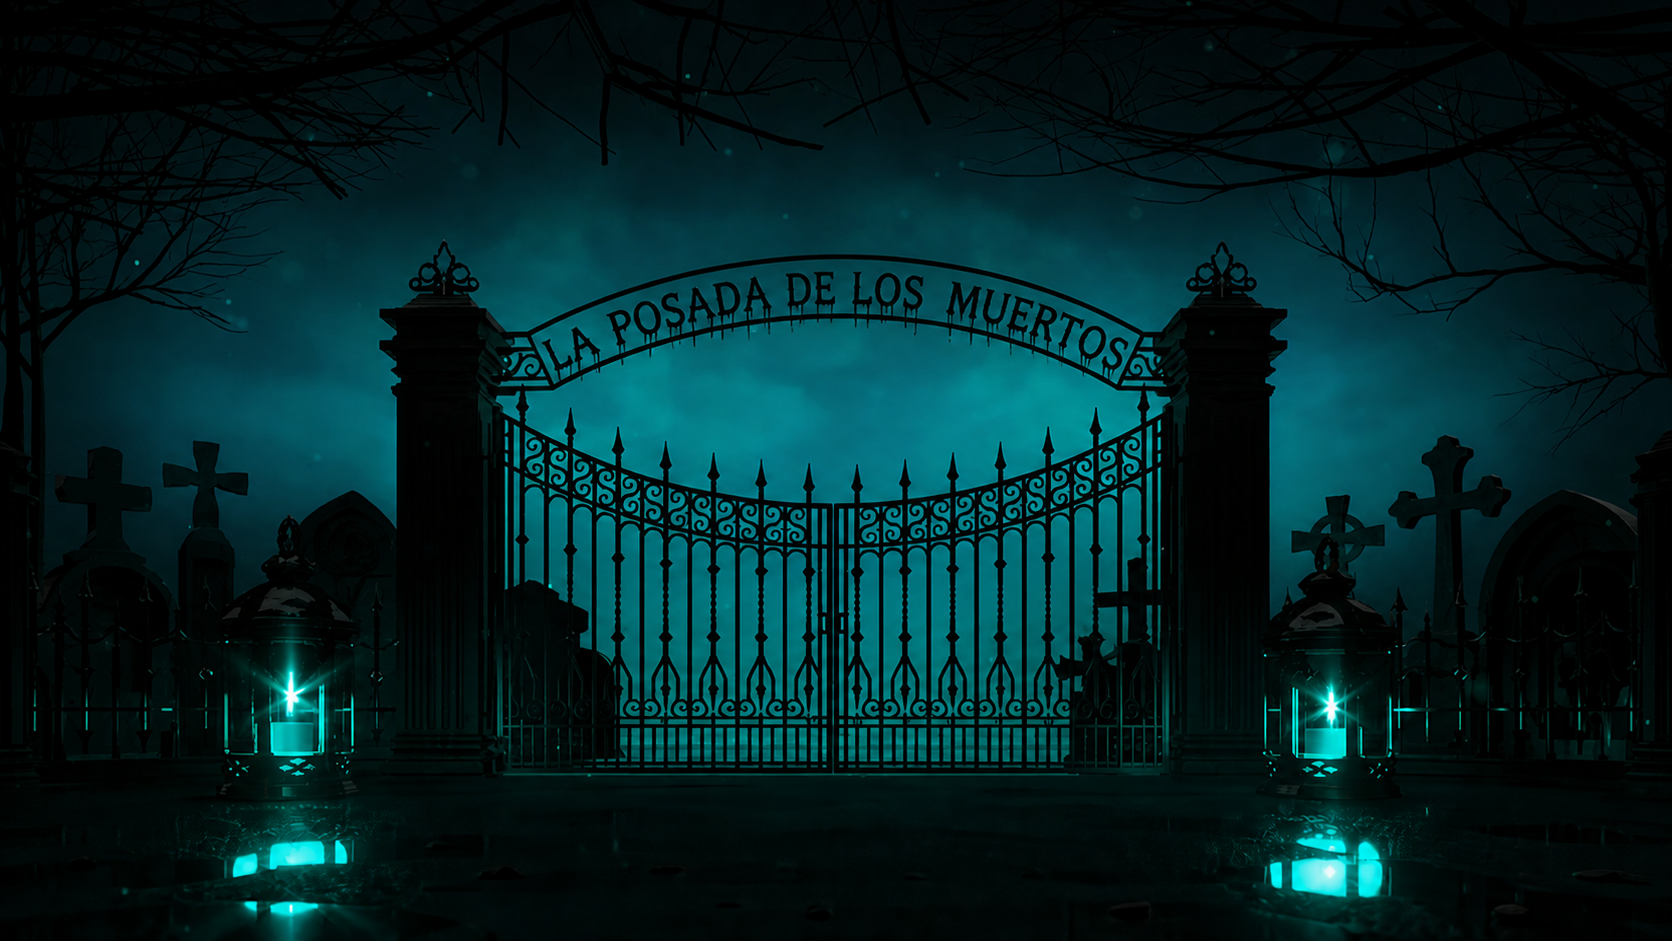
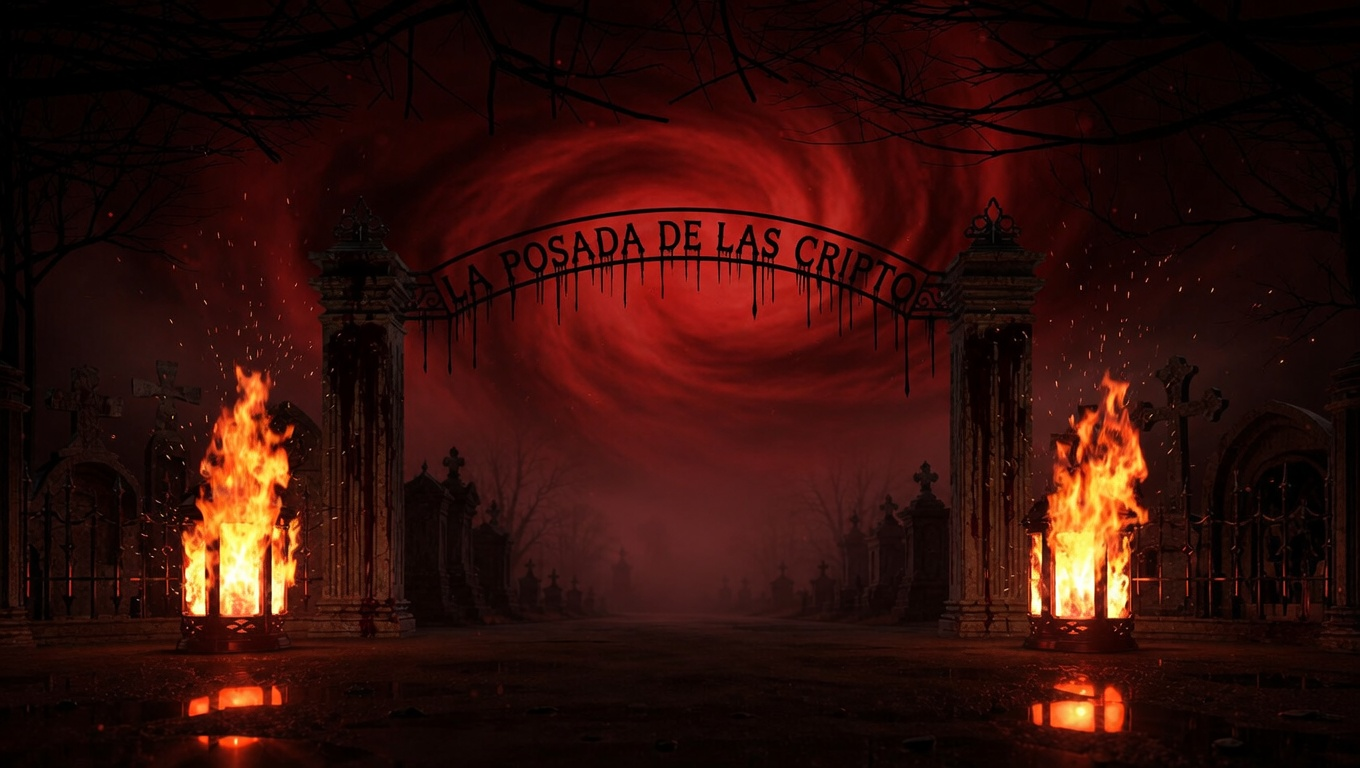
Cambio de omagen

diff --git a/style.css b/style.css
@@ -17,7 +17,7 @@ html, body, #campo-santo {
     color: #fff;
     min-height: 100vh;
     overflow-x: hidden;
-    font-family: 'Nosifer', cursive;
+    font-family: 'Metal Mania', cursive;
     cursor: url('./img/daga.png') 5 28, auto !important;
 }
 
@@ -79,7 +79,7 @@ button,
 }
 
 .titulo-mictlan {
-    font-family: 'Nosifer', cursive; 
+    font-family: 'Metal Mania', cursive; 
     font-size: 5rem;
     color: #00ffff;
     text-align: center;